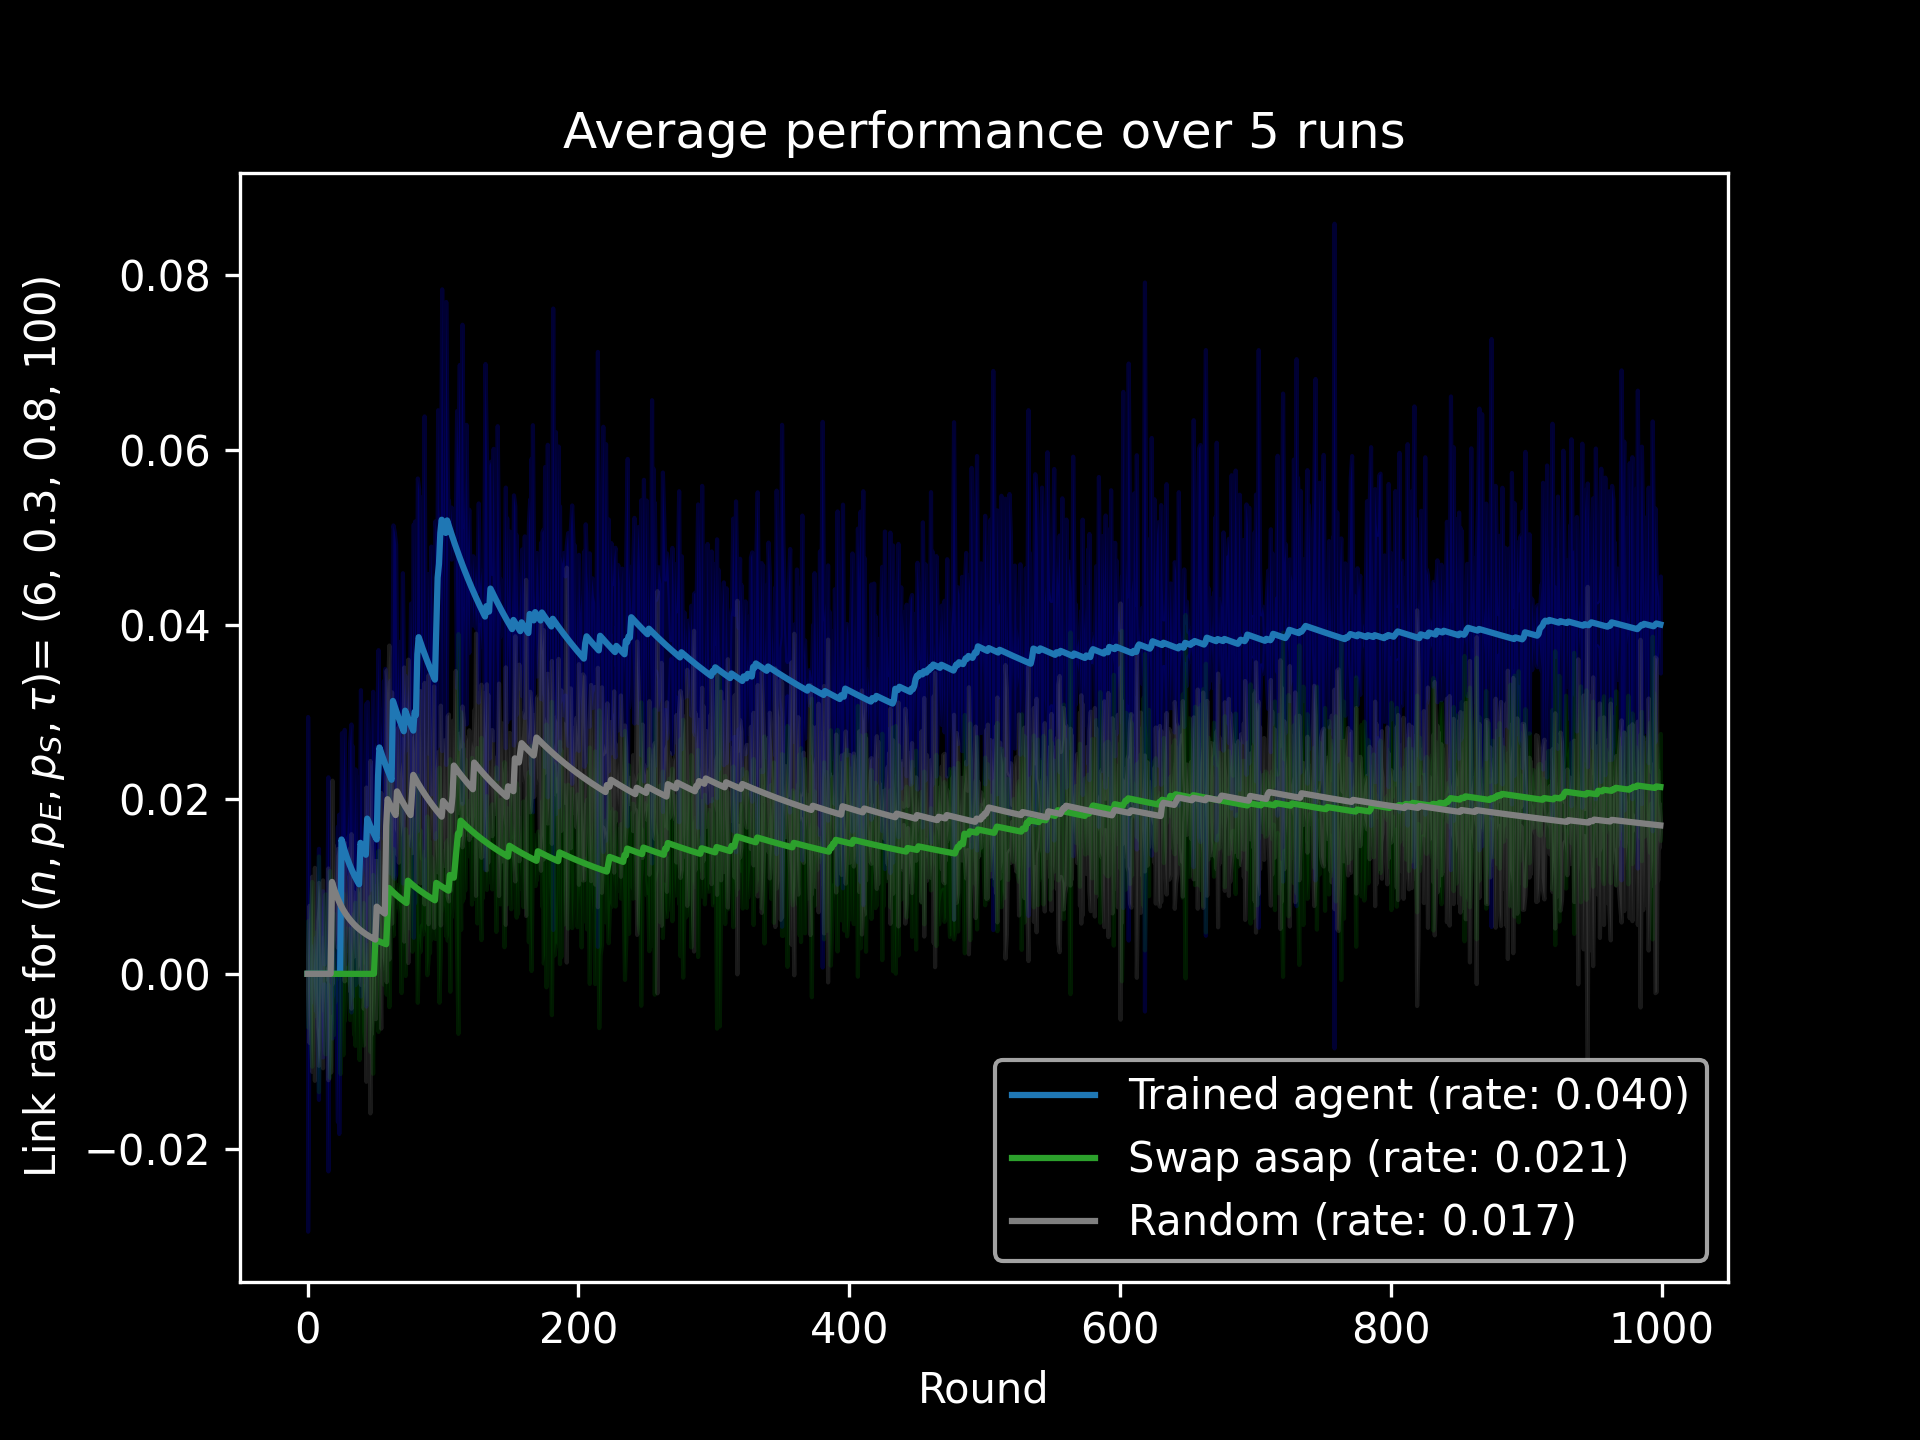
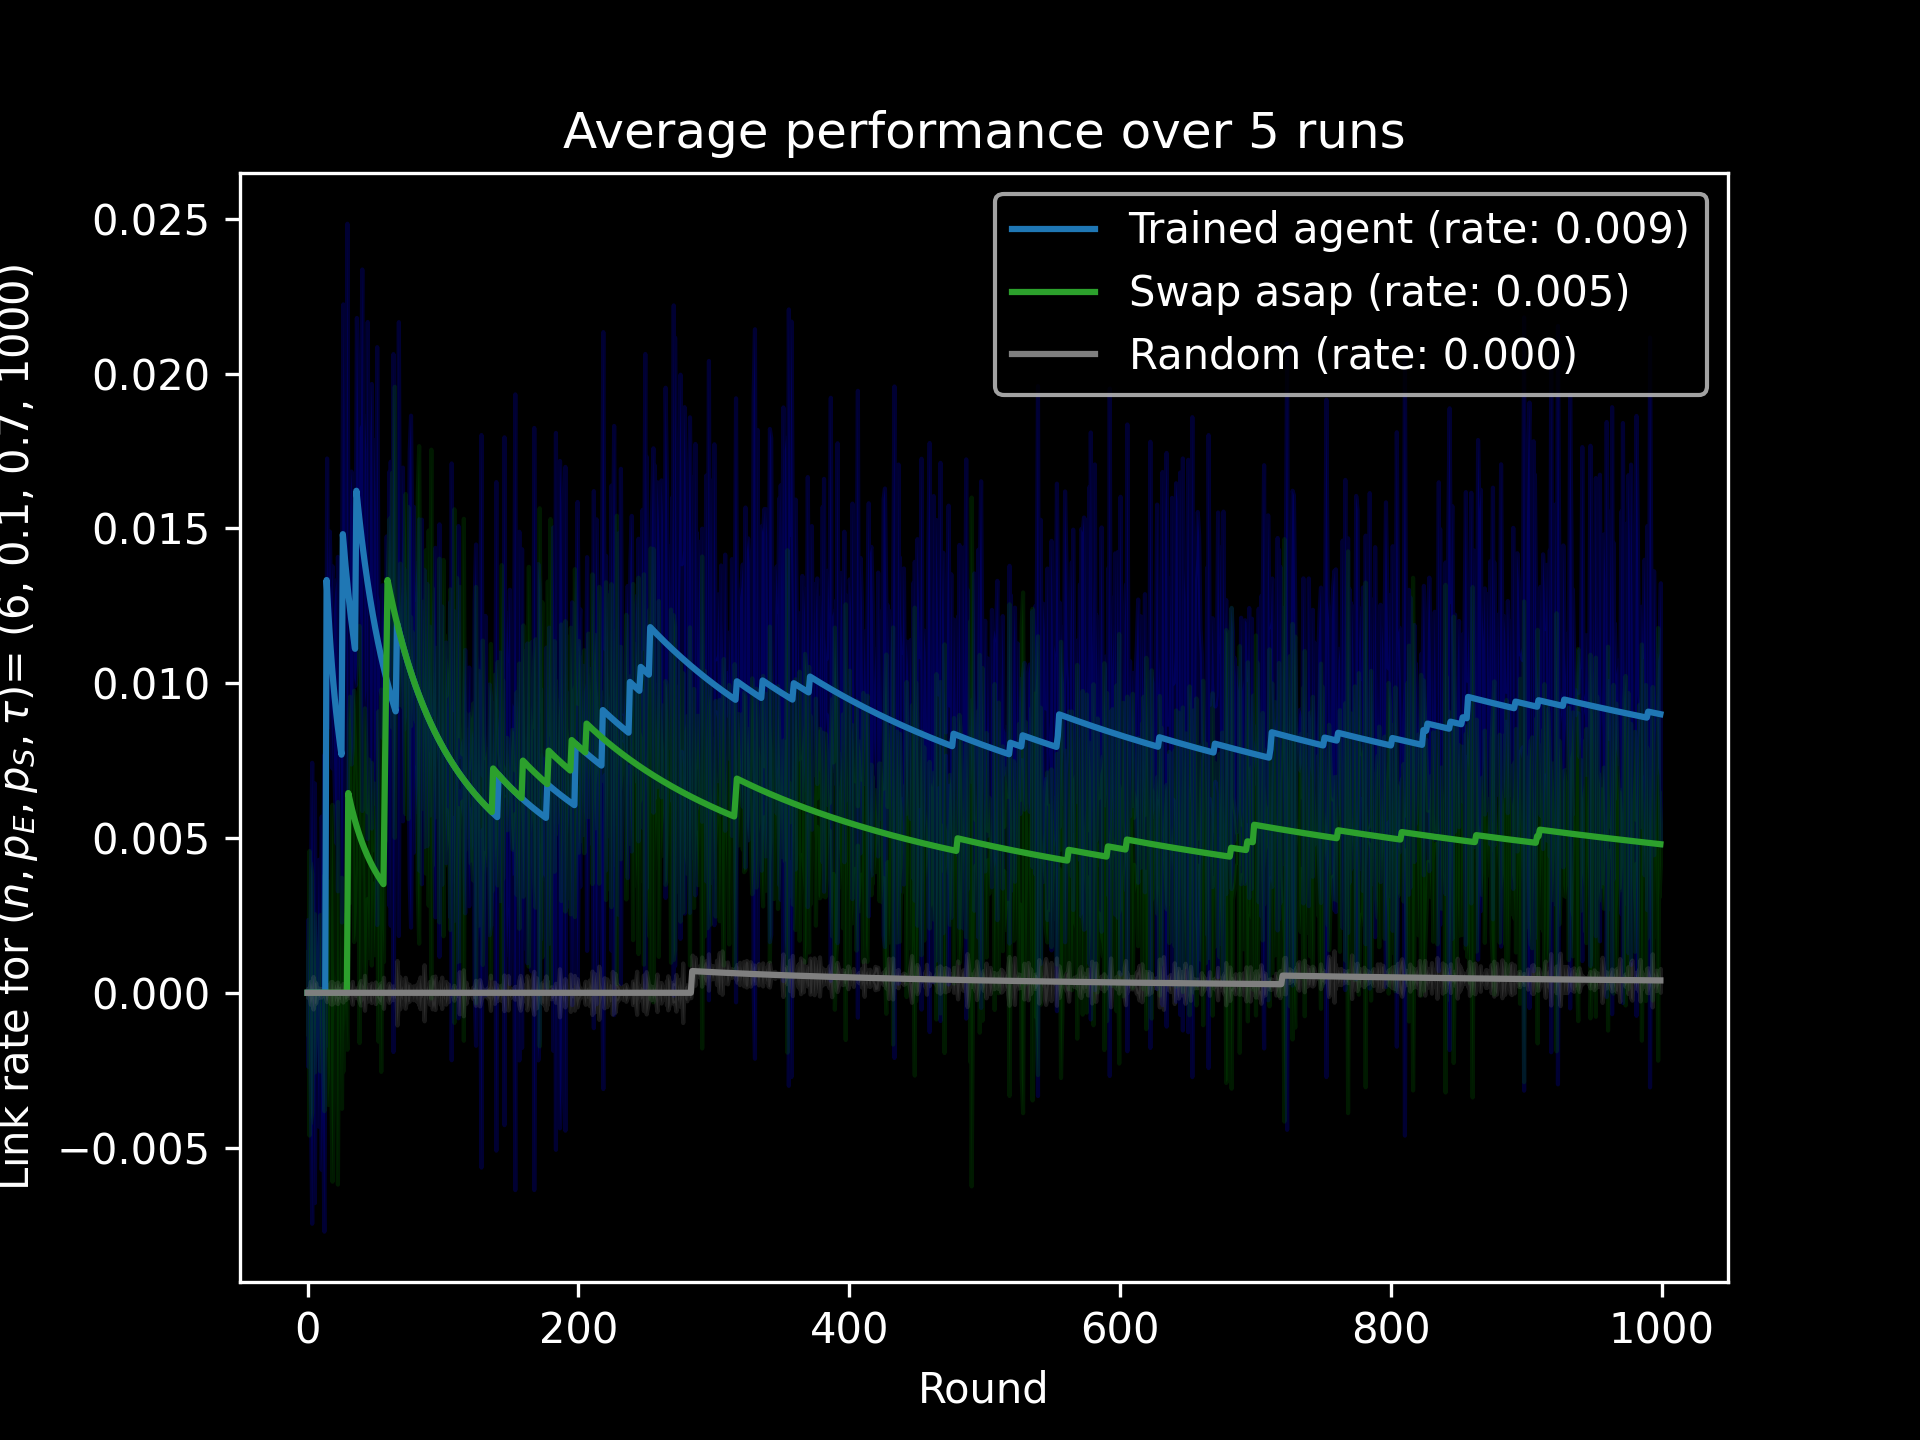
code: minor changes

diff --git a/src/main.py b/src/main.py
@@ -1,75 +1,45 @@
 from agent import AgentGNN
 import numpy as np
 import matplotlib.pyplot as plt
-from stats import train_stats, test_stats, n_scaling_test
+from stats import test_stats, n_scaling_test
 plt.style.use('dark_background')
 np.set_printoptions(legacy='1.25')
 
 # This file consists of 2 separete simulations
-# 2) Training and validation of the agent
-# 3) Scaling statistics of the relative performance of the agent
+# 
+# 1) Training and validation
+# 2) Scaling statistics of the relative performance 
 
 if __name__ == '__main__':
 
-    #Toggle which of the 3 parts you want
-    (GET_TEST_STATS, GET_SCALING_STATS) = (True, True)
+	#Toggle if scaling performance is evaluated
+	GET_SCALING_STATS = 0
 
-    #-----------------------PART I (ACTUAL TRAINING AND TESTING OF THE AGENT)-----------------------
-    if GET_TEST_STATS:
 
-        TRAIN_STEPS = 30_000
+	# Re-initialize the agent, now to be used as a zero-shot learner
+	agent = AgentGNN(n=4, 
+					cutoff = 100,
+					tau=100,
+					p_entangle=0.6, 
+					p_swap=0.8)
 
-        N_TRAIN = 4
+	#Train ONCE to use for testing (also save the model)
+	agent.train(episodes=30_000, plot=True, save_model=True)
 
-        P_ENTANGLE_TRAIN = 0.6
-        P_SWAP_TRAIN = 0.8
-        CUTOFF = 50 # after cutoff/tau time the link is discarded
-        TAU = 100
+	# Now gather validation statistics
+	test_stats(agent=agent, 
+			experiments=5, 
+			n_test = 6, 
+			p_entangle=0.1, 
+			p_swap=0.7, 
+			cutoff = 1000,
+			tau=1000, 
+			rounds=1_000) 
 
-        # Re-initialize the agent, now to be used as a zero-shot learner
-        agent = AgentGNN(n=N_TRAIN, 
-                        cutoff = CUTOFF,
-                        p_entangle=P_ENTANGLE_TRAIN, 
-                        p_swap=P_SWAP_TRAIN, 
-                        tau=TAU)
-
-        #Train ONCE to use for testing (also save the model)
-        agent.train(episodes=TRAIN_STEPS, plot=True, save_model=True)
-
-        # Initialize validation variables
-        TEST_TRIALS = 5
-        ROUNDS = 1_000
-
-        N_TEST = 6
-        P_ENTANGLE_TEST = 0.3
-        P_SWAP_TEST = 0.8
-        TAU_TEST = 100
-
-        # Now gather validation statistics
-        test_stats(agent=agent, 
-                N=TEST_TRIALS, 
-                n_test = N_TEST, 
-                p_entangle=P_ENTANGLE_TEST, 
-                p_swap=P_SWAP_TEST, 
-                tau=TAU_TEST, 
-                rounds=ROUNDS) 
-
-    #-----------------------PART II (CHECK AGENT RELATIVE SCALING COMPARED TO SWAP-ASAP)-----------------------
-    if GET_SCALING_STATS:
-        SCALING_TRIALS = 10
-        N_RANGE = range(5, 10)
-        TRAIN_STEPS_SCALING = 50_000
-
-        P_ENTANGLE_SCALING = 0.3
-        P_SWAP_SCALING = 0.8
-
-        #Train again ONCE again to use for testing (also save the model)
-        agent.train(episodes=TRAIN_STEPS_SCALING, plot=True, save_model=True)
-
-        # Observe the relative performance of tha agent as N varies
-        n_scaling_test(N=SCALING_TRIALS, 
-                    agent=agent, 
-                    N_range=N_RANGE, 
-                    p_e=P_ENTANGLE_SCALING, 
-                    p_s=P_SWAP_SCALING, 
-                    tau=TAU)
+	# Observe the relative performance of tha agent as N varies
+	n_scaling_test(experiments=10, 
+				agent=agent, 
+				N_range=range(5,10), 
+				p_e=0.3, 
+				p_s=0.8, 
+				tau=100) if GET_SCALING_STATS else None

diff --git a/src/stats.py b/src/stats.py
@@ -34,16 +34,35 @@ def train_stats(agent: object, N=3, steps=10_000, savefig=True):
   plt.show()
 
 
-def test_stats(agent, N=3, n_test=4, p_entangle=0.8, p_swap=0.8, tau=1000, rounds=400, quiet=False, savefig=True):
+def test_stats(agent, 
+               experiments=3, 
+               n_test=4, 
+               p_entangle=0.8, 
+               p_swap=0.8, 
+               tau=1000, 
+               cutoff = 10_000,
+               rounds=400, 
+               quiet=False, 
+               savefig=True):
+  
   """Used to gather validation statistics for the agent"""
 
   t_err, s_err, r_err = [], [], []
   t_mean, s_mean, r_mean = [], [], []
 
-  for _ in tqdm(range(N)):
-    rt, _, lt = agent.test(n_test=n_test, p_entangle=p_entangle, p_swap=p_swap, tau=tau, kind='trained', max_steps=rounds);
-    rs, _, ls = agent.test(n_test=n_test, p_entangle=p_entangle, p_swap=p_swap, tau=tau, kind='swap_asap',max_steps=rounds);
-    rr, _, lr = agent.test(n_test=n_test, p_entangle=p_entangle, p_swap=p_swap, tau=tau, kind='random',max_steps=rounds);
+  params = {
+    'n_test': n_test,
+    'p_entangle': p_entangle,
+    'p_swap': p_swap,
+    'tau': tau,
+    'cutoff': cutoff,
+    'max_steps': rounds
+  }
+
+  for _ in tqdm(range(experiments)):
+    rt, _, lt = agent.test(**params, kind='trained',);
+    rs, _, ls = agent.test(**params, kind='swap_asap');
+    rr, _, lr = agent.test(**params, kind='random');
 
     t_mean.append(lt)
     s_mean.append(ls)
@@ -80,7 +99,7 @@ def test_stats(agent, N=3, n_test=4, p_entangle=0.8, p_swap=0.8, tau=1000, round
   plt.fill_between(x, lr-error_r, lr+error_r, color='grey', alpha=0.2)
 
   plt.plot()
-  plt.title(f'Average performance over {N} runs')
+  plt.title(f'Average performance over {experiments} runs')
   plt.xlabel('Round')
   plt.ylabel(f'Link rate for $(n, p_E, p_S, τ)$= {n_test, p_entangle, p_swap, tau}')
   plt.legend()
@@ -89,7 +108,14 @@ def test_stats(agent, N=3, n_test=4, p_entangle=0.8, p_swap=0.8, tau=1000, round
 
 
 
-def n_scaling_test(N, agent, N_range:range, p_e, p_s, tau, savefig=False):
+def n_scaling_test(experiments, 
+                   agent, 
+                   N_range:range, 
+                   p_e, 
+                   p_s, 
+                   tau, 
+                   cutoff,
+                   savefig=False):
   """Used to test the agents relative scaling"""
 
   n_test=[n for n in N_range]
@@ -97,7 +123,14 @@ def n_scaling_test(N, agent, N_range:range, p_e, p_s, tau, savefig=False):
   t_err_list, s_err_list = [], []
 
   for n in n_test:
-    lt, ls, _, t_err, s_err, _ = test_stats(agent, N=N, n_test = n, p_entangle=p_e, p_swap=p_s, tau=tau, quiet=True)
+    lt, ls, _, t_err, s_err, _ = test_stats(agent, 
+                                            experiments=experiments, 
+                                            n_test = n, 
+                                            p_entangle=p_e, 
+                                            p_swap=p_s, 
+                                            cutoff=cutoff,
+                                            tau=tau, 
+                                            quiet=True)
 
     lt_list.append(lt)
     ls_list.append(ls)

diff --git a/src/repeaters.py b/src/repeaters.py
@@ -55,7 +55,7 @@ class RepeaterNetwork():
     self.n = n
     self.directed, self.geometry = directed, geometry
     self.global_state = False # Objective: make this into True
-    self.time , self.tau, self.cutoff, self.c = 0, tau, cutoff, 1
+    self.time , self.tau, self.cutoff = 0, tau, cutoff
     self.p_entangle, self.p_swap = p_entangle, p_swap
 
     self.combinations = np.array([[a,b] for a in range(n) for b in range(n)])
@@ -166,11 +166,11 @@ class RepeaterNetwork():
     self.time += int(T)
     for key in self.matrix:
       i,j = key # Needs an extra r_ij here
-      self.matrix[key][1] *= np.exp(-int(T) / (self.tau * self.c))
+      self.matrix[key][1] *= np.exp(-int(T) / self.tau)
 
     if self.cutoff != None:
       for key, (adj, ent) in self.matrix.items():
-        if ent < self.cutoff/self.tau:
+        if ent < np.exp(-self.cutoff / self.tau):
           self.matrix[(key)][1] = 0
 
  #--------------------------------ACTIONS---------------------------------------

diff --git a/src/agent.py b/src/agent.py
@@ -252,12 +252,13 @@ class AgentGNN(RepeaterNetwork):
            p_entangle=1, 
            p_swap=1, 
            tau=1000, 
+           cutoff = 10_000,
            max_steps=100, 
            verbose=False, 
            kind='trained') -> list:
     
     """Perform the validation of the agent against the heuristic strategies"""
-    super().__init__(n=n_test, tau=tau, p_entangle=p_entangle, p_swap=p_swap)
+    super().__init__(n=n_test, tau=tau, cutoff=cutoff, p_entangle=p_entangle, p_swap=p_swap)
     totalReward, rewardList = 0, []
     fidelity, fidelityList = 0,[]
     links_established, linkList = 0, []
